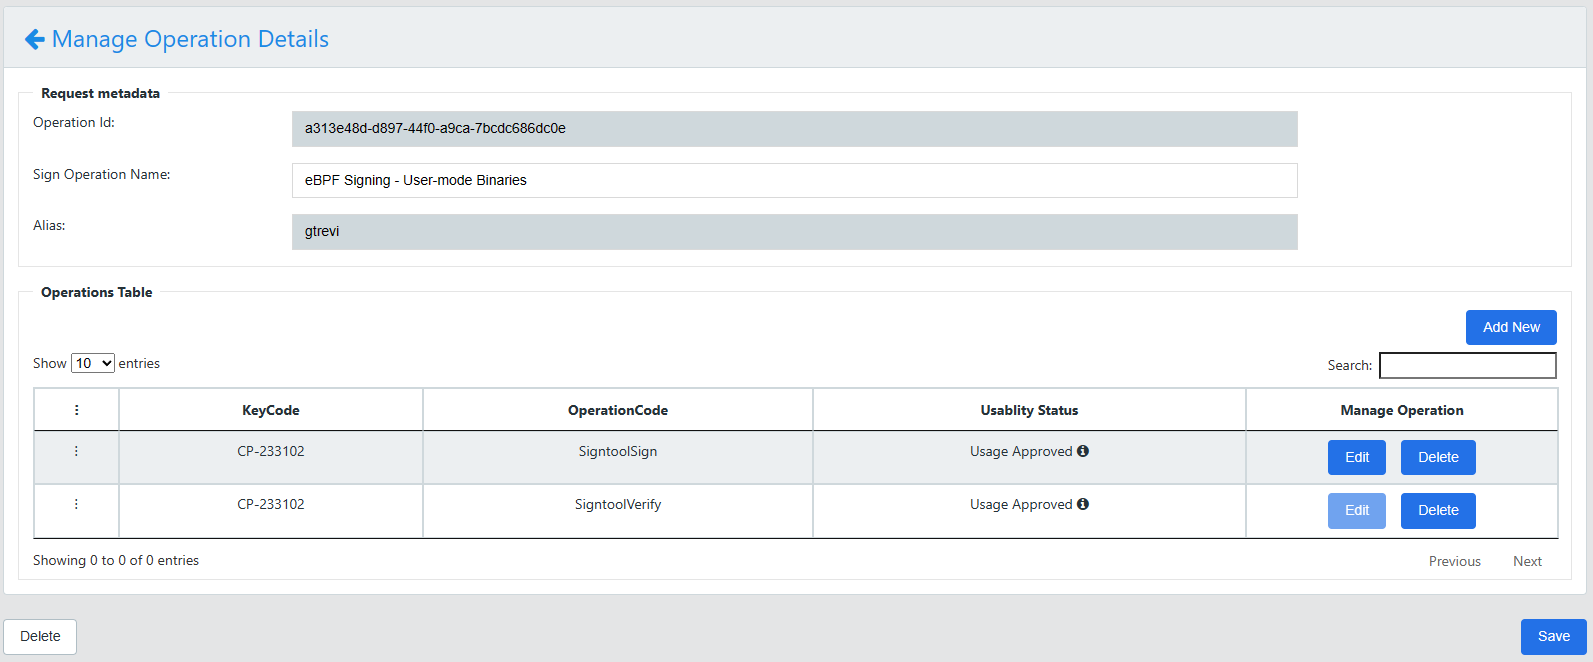
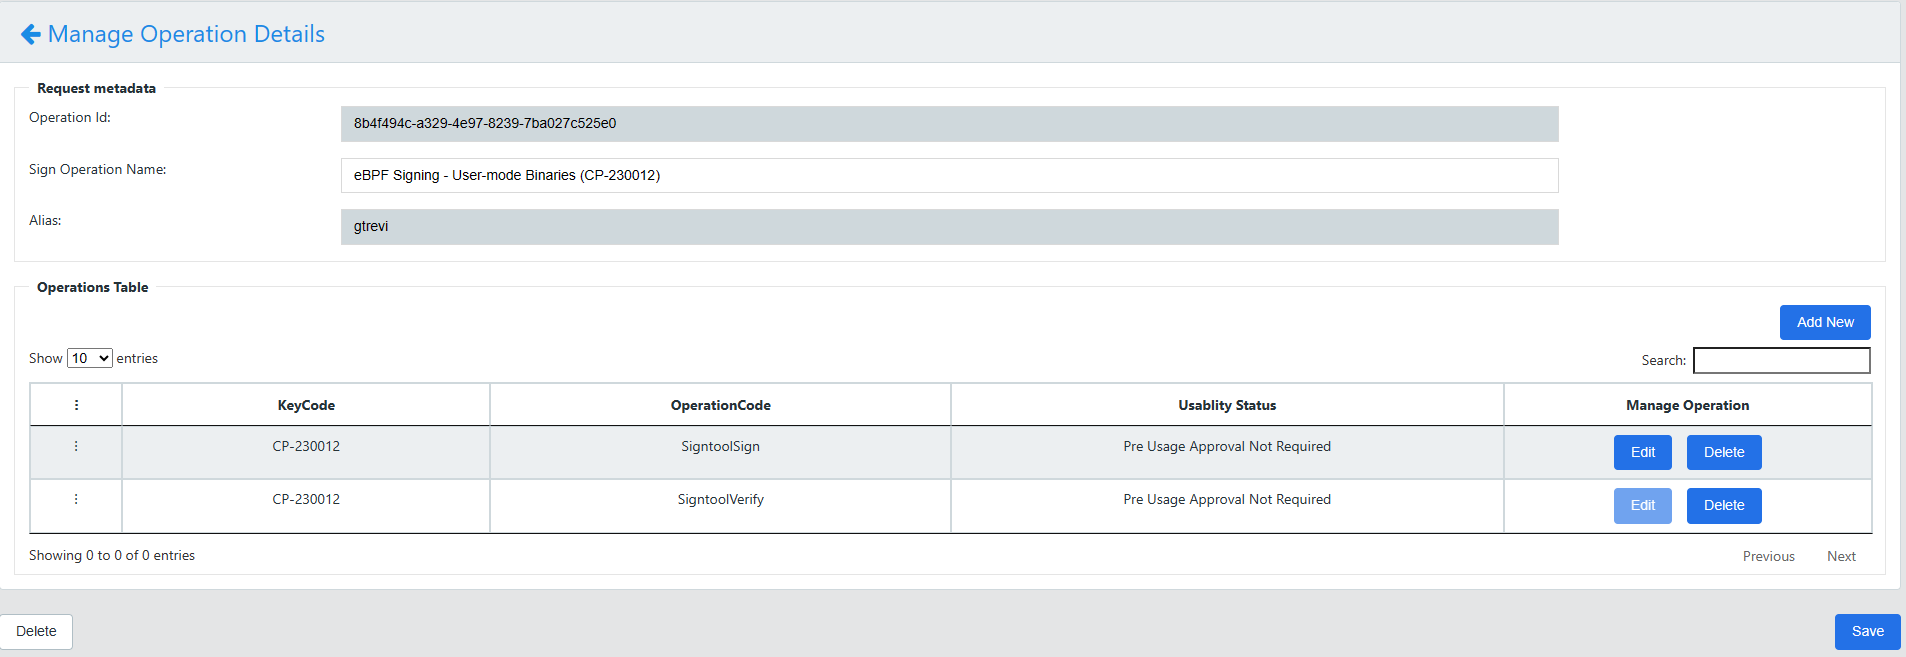
wip

diff --git a/.internal/docs/hlk-testing/HLKTestingForEbpfForWindows.md b/.internal/docs/hlk-testing/HLKTestingForEbpfForWindows.md
@@ -200,7 +200,7 @@ On HLK Studio, navigate sequentially to the following tabs:
 
 ### Signing the User-Mode binaries 
 
-- **[One-time operation]** Create a new `Sign Operation` in the [ESRP Portal](https://portal.esrp.microsoft.com/), by adding ["`CP-233102`" ,"`SigntoolSign`"] and ["`CP-233102`", "`SigntoolVerify`"]. Here is a screenshot of how the  `"Operation Details"` should look like:
+- **[One-time operation]** Create a new `Sign Operation` in the [ESRP Portal](https://portal.esrp.microsoft.com/), by adding ["`CP-230012`" ,"`SigntoolSign`"] and ["`CP-230012`", "`SigntoolVerify`"]. Here is a screenshot of how the  `"Operation Details"` should look like:
 
     ![](.\images\Operation_Details_UM.png)
 
